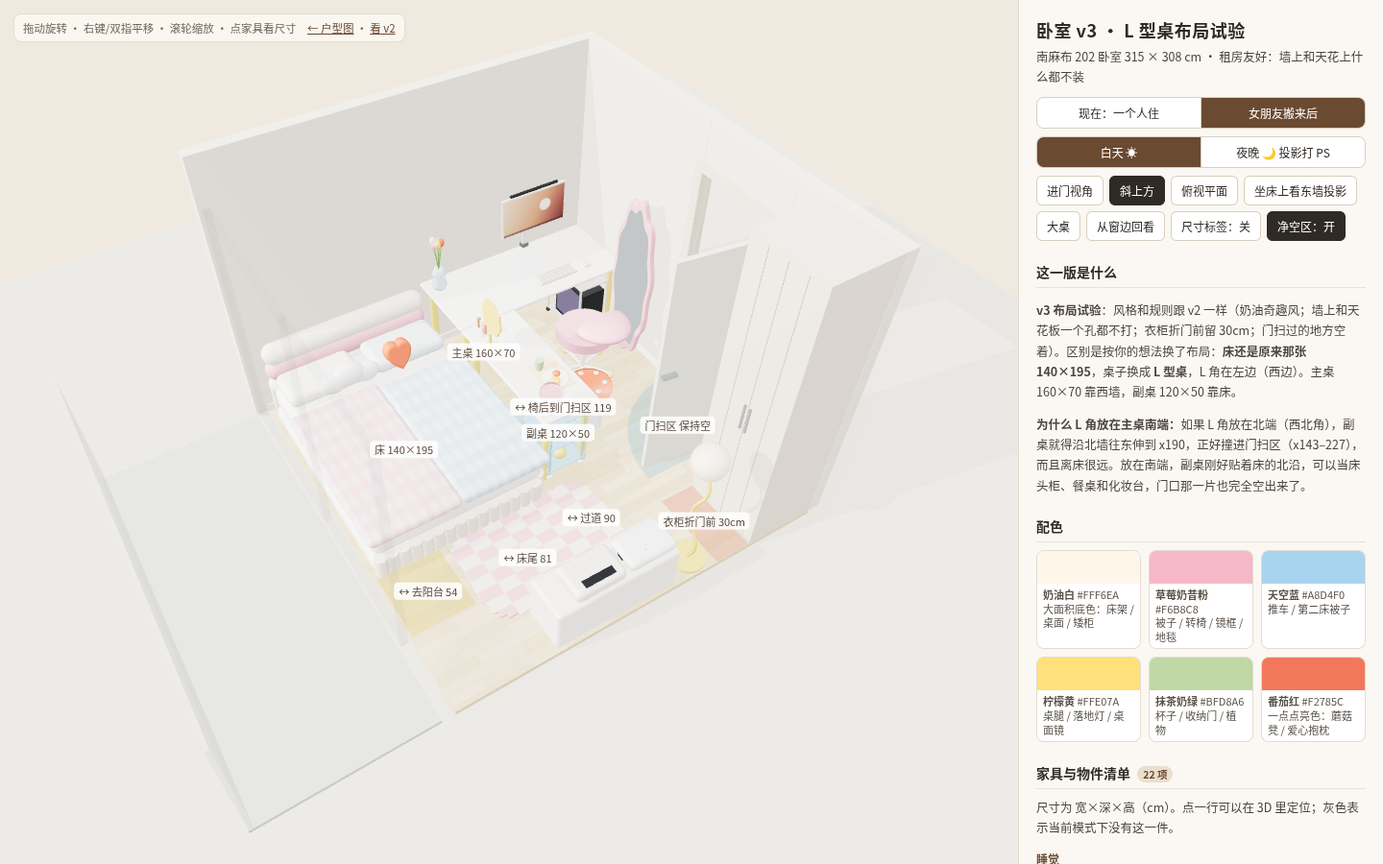
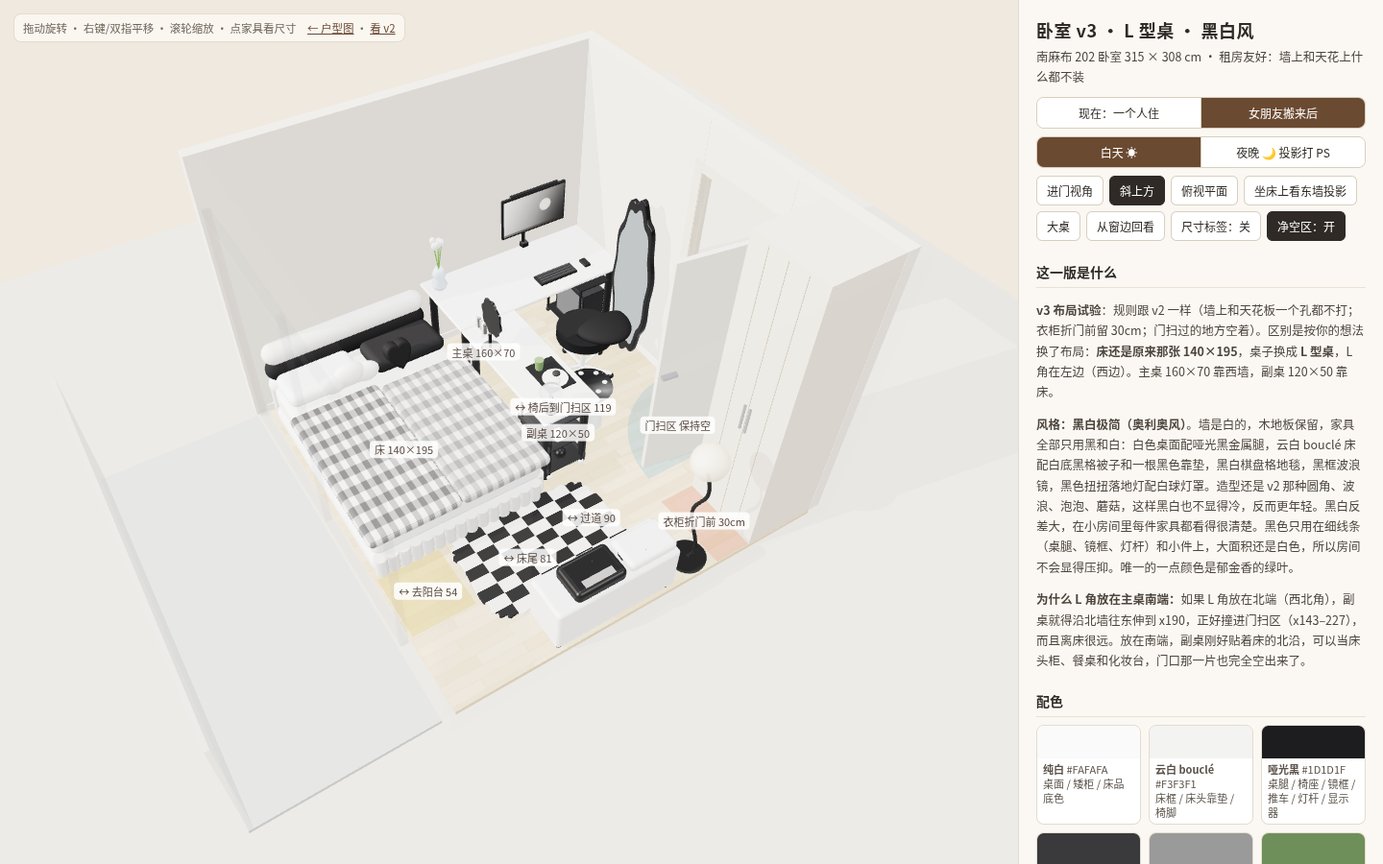
卧室 v3：黑白家具配色

diff --git a/bedroom-design-v3.html b/bedroom-design-v3.html
@@ -4,7 +4,7 @@
 <meta charset="UTF-8">
 <link rel="icon" href="data:,">
 <meta name="viewport" content="width=device-width, initial-scale=1, viewport-fit=cover">
-<title>南麻布 202 · 卧室 v3 布局试验（L 型桌 · 原床位）</title>
+<title>南麻布 202 · 卧室 v3（L 型桌 · 黑白风）</title>
 <style>
   * { box-sizing: border-box; }
   html, body { margin: 0; height: 100%; overflow: hidden; background: #efe9df;
@@ -77,7 +77,7 @@
 
 <aside id="side">
   <button id="toggleSide">展开</button>
-  <h1>卧室 v3 · L 型桌布局试验</h1>
+  <h1>卧室 v3 · L 型桌 · 黑白风</h1>
   <p class="sub">南麻布 202 卧室 315 × 308 cm · 租房友好：墙上和天花上什么都不装</p>
   <div class="seg" id="segMode">
     <button data-mode="solo" class="on">现在：一个人住</button>
@@ -98,7 +98,8 @@
     <button id="btnZones" class="on">净空区：开</button>
   </div>
       <h2>这一版是什么</h2>
-  <p><b>v3 布局试验</b>：风格和规则跟 v2 一样（奶油奇趣风；墙上和天花板一个孔都不打；衣柜折门前留 30cm；门扫过的地方空着）。区别是按你的想法换了布局：<b>床还是原来那张 140×195</b>，桌子换成 <b>L 型桌</b>，L 角在左边（西边）。主桌 160×70 靠西墙，副桌 120×50 靠床。</p>
+  <p><b>v3 布局试验</b>：规则跟 v2 一样（墙上和天花板一个孔都不打；衣柜折门前留 30cm；门扫过的地方空着）。区别是按你的想法换了布局：<b>床还是原来那张 140×195</b>，桌子换成 <b>L 型桌</b>，L 角在左边（西边）。主桌 160×70 靠西墙，副桌 120×50 靠床。</p>
+  <p><b>风格：黑白极简（奥利奥风）</b>。墙是白的，木地板保留，家具全部只用黑和白：白色桌面配哑光黑金属腿，云白 bouclé 床配白底黑格被子和一根黑色靠垫，黑白棋盘格地毯，黑框波浪镜，黑色扭扭落地灯配白球灯罩。造型还是 v2 那种圆角、波浪、泡泡、蘑菇，这样黑白也不显得冷，反而更年轻。黑白反差大，在小房间里每件家具都看得很清楚。黑色只用在细线条（桌腿、镜框、灯杆）和小件上，大面积还是白色，所以房间不会显得压抑。唯一的一点颜色是郁金香的绿叶。</p>
   <p><b>为什么 L 角放在主桌南端：</b>如果 L 角放在北端（西北角），副桌就得沿北墙往东伸到 x190，正好撞进门扫区（x143–227），而且离床很远。放在南端，副桌刚好贴着床的北沿，可以当床头柜、餐桌和化妆台，门口那一片也完全空出来了。</p>
   <h2>配色</h2>
   <div class="pal" id="pal"></div>
@@ -170,12 +171,12 @@ const W = 315, D = 308, H = 240, T = 10;
 
 /* ================= 配色 ================= */
 const PALETTE = [
-  { hex: '#FFF6EA', name: '奶油白', use: '大面积底色：床架 / 桌面 / 矮柜' },
-  { hex: '#F6B8C8', name: '草莓奶昔粉', use: '被子 / 转椅 / 镜框 / 地毯' },
-  { hex: '#A8D4F0', name: '天空蓝', use: '推车 / 第二床被子' },
-  { hex: '#FFE07A', name: '柠檬黄', use: '桌腿 / 落地灯 / 桌面镜' },
-  { hex: '#BFD8A6', name: '抹茶奶绿', use: '杯子 / 收纳门 / 植物' },
-  { hex: '#F2785C', name: '番茄红', use: '一点点亮色：蘑菇凳 / 爱心抱枕' },
+  { hex: '#FAFAFA', name: '纯白', use: '桌面 / 矮柜 / 床品底色' },
+  { hex: '#F3F3F1', name: '云白 bouclé', use: '床框 / 床头靠垫 / 椅脚' },
+  { hex: '#1D1D1F', name: '哑光黑', use: '桌腿 / 椅座 / 镜框 / 推车 / 灯杆 / 显示器' },
+  { hex: '#3A3A3C', name: '炭灰', use: '遮光帘 / 键盘 / 小物' },
+  { hex: '#9A9A9A', name: '银灰', use: '格纹过渡 / 收纳小件' },
+  { hex: '#6F8F5A', name: '植物绿', use: '唯一一点颜色：郁金香茎叶 / 杯子' },
 ];
 const C = { cream: 0xf3ede2, oat: 0xe0d2bc, walnut: 0x6b4a32, caramel: 0xb5733e, wine: 0x6e2a31, olive: 0x6f7a4c,
   ink: 0x2b2622, chrome: 0xd7d9db, white: 0xfbfaf7, linen: 0xf6f1e8, oak: 0xd9c19c };
@@ -380,7 +381,7 @@ const doorPivot = new THREE.Group();
 
 /* ===== v2 构件：奶油奇趣风（局部坐标：原点在占地中心地面，宽沿 x，深沿 z，正面朝 +z） ===== */
 const B = {};
-const P = { cream: 0xfff6ea, pink: 0xf6b8c8, matcha: 0xbfd8a6, lemon: 0xffe07a, sky: 0xa8d4f0, cocoa: 0x7a5543, white: 0xfffdf8, tomato: 0xf2785c };
+const P = { cream: 0xf3f3f1, pink: 0x1d1d1f, matcha: 0x6f8f5a, lemon: 0x1a1a1a, sky: 0x232325, cocoa: 0x141414, white: 0xfafafa, tomato: 0x1d1d1f };   // 黑白风
 const boucle = (c) => M(c, { roughness: 1 });
 const gloss = (c) => M(c, { roughness: 0.25 });
 function tube(g, pts, r, m, seg = 64) {
@@ -395,11 +396,11 @@ B.cloudBed = (o) => {
   const z0 = -d / 2 + 14;                         // 床头靠垫之后
   /* 涟漪软包床架：一圈竖向"泡芙"圆柱 */
   box(g, w, 26, d - 14, 0, 2, (z0 + d / 2) / 2, fr, 8);
-  const ripple = M(0xfbeedd, { roughness: 1 });
+  const ripple = M(0xe9e9e6, { roughness: 1 });
   for (let x = -w / 2 + 6; x <= w / 2 - 6; x += 9.2) cyl(g, 5, 5, 24, x, 3, d / 2 - 3, ripple, 16);
   for (let z = z0 + 6; z <= d / 2 - 8; z += 9.4) cyl(g, 5, 5, 24, w / 2 - 3, 3, z, ripple, 16);
   /* 储物抽屉（东侧 = 局部 -x，因为床旋转 180°） */
-  for (const zz of [-40, 30]) box(g, 1, 14, 56, -w / 2 - 0.3, 8, zz, M(0xf0e2cf));
+  for (const zz of [-40, 30]) box(g, 1, 14, 56, -w / 2 - 0.3, 8, zz, M(0xdedede));
   box(g, w - 4, 22, d - 20, 0, 28, (z0 + d / 2) / 2, M(P.white, { roughness: 0.9 }), 7);       // 床垫
   const top = 50;
   /* 被子：一人 = 草莓粉格纹；两人 = 粉 + 天蓝 两床 */
@@ -410,16 +411,16 @@ B.cloudBed = (o) => {
   }) });
   const dz0 = z0 + 48, dz1 = d / 2 + 2, dzc = (dz0 + dz1) / 2, dl = dz1 - dz0;
   if (!duo) {
-    box(g, w + 6, 9, dl, 0, top - 4, dzc, ging('#fde7ee', '#f6b8c8'), 4.5);
-    box(g, w + 6, 3, 24, 0, top + 4.5, dz0 + 12, M(0xfff1f4, { roughness: 1 }), 1.5);
+    box(g, w + 6, 9, dl, 0, top - 4, dzc, ging('#ffffff', '#1d1d1f'), 4.5);
+    box(g, w + 6, 3, 24, 0, top + 4.5, dz0 + 12, M(0xffffff, { roughness: 1 }), 1.5);
   } else {
-    box(g, w / 2 + 2, 9, dl, -w / 4 - 1, top - 4, dzc, ging('#fde7ee', '#f6b8c8'), 4.5);
-    box(g, w / 2 + 2, 10, dl - 6, w / 4 + 1, top - 4, dzc + 3, ging('#e6f3fc', '#a8d4f0'), 4.5);
+    box(g, w / 2 + 2, 9, dl, -w / 4 - 1, top - 4, dzc, ging('#ffffff', '#1d1d1f'), 4.5);
+    box(g, w / 2 + 2, 10, dl - 6, w / 4 + 1, top - 4, dzc + 3, ging('#e9e9e9', '#555558'), 4.5);
   }
   /* 枕头 */
-  const pil = M(0xfffaf3, { roughness: 1 });
+  const pil = M(0xffffff, { roughness: 1 });
   const np = duo ? [-w / 4, w / 4] : [-w / 4, w / 4];
-  np.forEach((x, i) => { const p = box(g, w / 2 - 10, 13, 38, x, top - 1, z0 + 22, i ? M(duo ? 0xe6f3fc : 0xfffaf3, { roughness: 1 }) : pil, 6); p.rotation.x = -0.12; });
+  np.forEach((x, i) => { const p = box(g, w / 2 - 10, 13, 38, x, top - 1, z0 + 22, i ? M(duo ? 0x2a2a2c : 0xffffff, { roughness: 1 }) : pil, 6); p.rotation.x = -0.12; });
   /* 云朵抱枕 + 爱心抱枕 */
   const cloud = M(0xffffff, { roughness: 1 });
   [[-14, 0, 0, 11], [0, 4, 0, 13], [14, 0, 0, 11]].forEach(([x, y, z, r]) => sph(g, r, x - 18, top + 12 + y, z0 + 40 + z, cloud, 1, 0.8, 0.55));
@@ -441,7 +442,7 @@ B.lowBed = (o) => {
   const z0 = -d / 2 + 14;                         // 床头靠垫之后
   /* 涟漪软包床架：一圈竖向"泡芙"圆柱 */
   box(g, w, 18, d - 14, 0, 2, (z0 + d / 2) / 2, fr, 8);
-  const ripple = M(0xfbeedd, { roughness: 1 });
+  const ripple = M(0xe9e9e6, { roughness: 1 });
   for (let x = -w / 2 + 6; x <= w / 2 - 6; x += 9.2) cyl(g, 5, 5, 17, x, 3, d / 2 - 3, ripple, 16);
   for (let z = z0 + 6; z <= d / 2 - 8; z += 9.4) cyl(g, 5, 5, 17, w / 2 - 3, 3, z, ripple, 16);
   /* 储物抽屉（东侧 = 局部 -x，因为床旋转 180°） */
@@ -455,16 +456,16 @@ B.lowBed = (o) => {
   }) });
   const dz0 = z0 + 48, dz1 = d / 2 + 2, dzc = (dz0 + dz1) / 2, dl = dz1 - dz0;
   if (!duo) {
-    box(g, w + 6, 9, dl, 0, top - 4, dzc, ging('#fde7ee', '#f6b8c8'), 4.5);
-    box(g, w + 6, 3, 24, 0, top + 4.5, dz0 + 12, M(0xfff1f4, { roughness: 1 }), 1.5);
+    box(g, w + 6, 9, dl, 0, top - 4, dzc, ging('#ffffff', '#1d1d1f'), 4.5);
+    box(g, w + 6, 3, 24, 0, top + 4.5, dz0 + 12, M(0xffffff, { roughness: 1 }), 1.5);
   } else {
-    box(g, w / 2 + 2, 9, dl, -w / 4 - 1, top - 4, dzc, ging('#fde7ee', '#f6b8c8'), 4.5);
-    box(g, w / 2 + 2, 10, dl - 6, w / 4 + 1, top - 4, dzc + 3, ging('#e6f3fc', '#a8d4f0'), 4.5);
+    box(g, w / 2 + 2, 9, dl, -w / 4 - 1, top - 4, dzc, ging('#ffffff', '#1d1d1f'), 4.5);
+    box(g, w / 2 + 2, 10, dl - 6, w / 4 + 1, top - 4, dzc + 3, ging('#e9e9e9', '#555558'), 4.5);
   }
   /* 枕头 */
-  const pil = M(0xfffaf3, { roughness: 1 });
+  const pil = M(0xffffff, { roughness: 1 });
   const np = duo ? [-w / 4, w / 4] : [-w / 4, w / 4];
-  np.forEach((x, i) => { const p = box(g, w / 2 - 10, 13, 38, x, top - 1, z0 + 22, i ? M(duo ? 0xe6f3fc : 0xfffaf3, { roughness: 1 }) : pil, 6); p.rotation.x = -0.12; });
+  np.forEach((x, i) => { const p = box(g, w / 2 - 10, 13, 38, x, top - 1, z0 + 22, i ? M(duo ? 0x2a2a2c : 0xffffff, { roughness: 1 }) : pil, 6); p.rotation.x = -0.12; });
   /* 云朵抱枕 + 爱心抱枕 */
   const cloud = M(0xffffff, { roughness: 1 });
   [[-14, 0, 0, 11], [0, 4, 0, 13], [14, 0, 0, 11]].forEach(([x, y, z, r]) => sph(g, r, x - 18, top + 12 + y, z0 + 40 + z, cloud, 1, 0.8, 0.55));
@@ -486,7 +487,7 @@ B.extTable = (o) => {
   box(g, L, 3.5, Dd, 0, 68.5, 0, topM, 1.6);
   if (L > 130 && !o.solid) box(g, 0.5, 0.4, Dd - 2, L / 2 - 40, 72, 0, M(0xe8e0d4));       // 伸缩板接缝
   for (const [x, z] of [[-L / 2 + 8, -Dd / 2 + 8], [L / 2 - 8, -Dd / 2 + 8], [-L / 2 + 8, Dd / 2 - 8], [L / 2 - 8, Dd / 2 - 8]]) cyl(g, 3.2, 3.2, 68.5, x, 0, z, legM, 20);
-  box(g, L - 20, 4, 3, 0, 62, -Dd / 2 + 8, M(0xf6efe4));
+  box(g, L - 20, 4, 3, 0, 62, -Dd / 2 + 8, M(0x1a1a1a));
   return g;
 };
 B.bubbleChair = () => {
@@ -507,13 +508,13 @@ B.mushroomStool = (o) => {
   return g;
 };
 B.cart = (o) => {
-  /* 天蓝三层推车 44×34×64：零食 / 手柄 / 充电，可推进桌下（桌下净高 68） */
+  /* 哑光黑三层推车 44×34×64：零食 / 手柄 / 充电，可推进桌下（桌下净高 68） */
   const g = new THREE.Group();
   const m = gloss(P.sky);
   for (const [x, z] of [[-20, -15], [20, -15], [-20, 15], [20, 15]]) { cyl(g, 1, 1, 58, x, 5, z, m, 8); sph(g, 2.5, x, 2.5, z, M(0xffffff)); }
   for (const y of [8, 33, 58]) { box(g, 44, 1, 34, 0, y, 0, m, 0.5); box(g, 44, 5, 1, 0, y, 17, m); box(g, 44, 5, 1, 0, y, -17, m); }
   const pad = box(g, 16, 5, 10, 10, 34, 3, gloss(0xffffff), 2.5);           // 手柄
-  ['#f6b8c8', '#a8d4f0', '#ffe07a', '#bfd8a6'].forEach((c, i) => box(g, 1.6, 17, 13.5, -16 + i * 2.2, 9, 0, M(new THREE.Color(c).getHex())));   // 游戏盒
+  ['#ffffff', '#1d1d1f', '#9a9a9a', '#1d1d1f'].forEach((c, i) => box(g, 1.6, 17, 13.5, -16 + i * 2.2, 9, 0, M(new THREE.Color(c).getHex())));   // 游戏盒
   cyl(g, 4, 4, 9, -10, 34, 0, gloss(P.tomato), 16);                          // 零食罐
   sph(g, 5, 12, 14, 0, gloss(P.lemon));
   return g;
@@ -525,7 +526,7 @@ B.lowBench = (o) => {
   for (const x of [-L / 2 + 5, L / 2 - 5]) for (const z of [-12, 12]) cyl(g, 2.5, 2.5, 5, x, 0, z, gloss(P.lemon), 12);
   /* 波浪拱门格 + 粉色推门 */
   box(g, L / 2 - 4, 30, 1, -L / 4, 10, 17.6, gloss(P.pink), 2);
-  for (let i = 0; i < 6; i++) { const x = 4 + i * ((L / 2 - 10) / 6); box(g, 1.5, 22, 14, x, 10, 4, M(['#ffe07a', '#a8d4f0', '#bfd8a6', '#f6b8c8', '#ffffff', '#f2785c'].map(c => new THREE.Color(c).getHex())[i])); }
+  for (let i = 0; i < 6; i++) { const x = 4 + i * ((L / 2 - 10) / 6); box(g, 1.5, 22, 14, x, 10, 4, M(['#1d1d1f', '#ffffff', '#9a9a9a', '#1d1d1f', '#ffffff', '#6f8f5a'].map(c => new THREE.Color(c).getHex())[i])); }
   return g;
 };
 B.wavyMirror = (o) => {
@@ -563,7 +564,7 @@ B.wiggleLamp = (o) => {
 B.mushroomLamp = (o) => {
   const g = new THREE.Group();
   const c = o.color || P.pink;
-  const base = gloss(c);
+  const base = gloss(o.base || c);
   lathe(g, [[0, 0], [7, 0], [7, 1.2], [2.2, 3], [1.7, 14], [1.7, 18], [0, 18]], 0, 0, 0, base);
   const capM = glow(c, 0.1);
   lathe(g, [[0, 30], [4, 29.6], [8.5, 27.5], [11, 23], [11, 21.6], [9, 21.2], [0, 21.4]], 0, 0, 0, capM);
@@ -583,7 +584,7 @@ B.checkerRug = (o) => {
     i ? shape.lineTo(x, z) : shape.moveTo(x, z);
   }
   const tex = canvasTex(512, 512, (x, cw, ch) => {
-    const n = 8; for (let i = 0; i < n; i++) for (let j = 0; j < n; j++) { x.fillStyle = (i + j) % 2 ? '#f6b8c8' : '#fff3e6'; x.fillRect(i * cw / n, j * ch / n, cw / n, ch / n); }
+    const n = 8; for (let i = 0; i < n; i++) for (let j = 0; j < n; j++) { x.fillStyle = (i + j) % 2 ? '#1d1d1f' : '#f5f5f3'; x.fillRect(i * cw / n, j * ch / n, cw / n, ch / n); }
   });
   const geo = new THREE.ExtrudeGeometry(shape, { depth: 1.6, bevelEnabled: true, bevelThickness: 0.5, bevelSize: 0.8, bevelSegments: 2 });
   geo.rotateX(Math.PI / 2);
@@ -596,7 +597,7 @@ B.tulips = () => {
   const g = new THREE.Group();
   lathe(g, [[0, 0], [5, 0], [6.5, 4], [4, 9], [6, 14], [4.2, 18], [3.5, 20], [0, 20]], 0, 0, 0, M(0xd9ecff, { roughness: 0.05, transparent: true, opacity: 0.75 }));
   const r = rnd(4);
-  ['#f6b8c8', '#ffe07a', '#f2785c', '#f6b8c8', '#ffffff'].forEach((c, i) => {
+  ['#ffffff', '#f2f2f2', '#ffffff', '#ececec', '#ffffff'].forEach((c, i) => {
     const a = i * 1.25, t = 0.12 + r() * 0.12, hh = 18 + r() * 8;
     const x = Math.sin(a) * hh * t, z = Math.cos(a) * hh * t;
     tube(g, [[0, 18, 0], [x / 2, 18 + hh / 2, z / 2], [x, 18 + hh, z]], 0.35, M(0x7fae5a), 8);
@@ -606,9 +607,9 @@ B.tulips = () => {
 };
 B.meal = () => {
   const g = new THREE.Group();
-  box(g, 34, 1, 24, 0, 0, 0, M(0xffe9b8, { roughness: 0.6 }), 0.5);       // 托盘
+  box(g, 34, 1, 24, 0, 0, 0, M(0x1d1d1f, { roughness: 0.6 }), 0.5);       // 托盘
   cyl(g, 10, 8, 1.6, -6, 1, 0, gloss(0xffffff), 32);
-  sph(g, 4, -9, 3, -2, M(0xffd56b), 1, 0.5, 1); sph(g, 3, -3, 3, 3, M(0xf2785c), 1, 0.6, 1);
+  sph(g, 4, -9, 3, -2, M(0xf5f5f5), 1, 0.5, 1); sph(g, 3, -3, 3, 3, M(0x3a3a3c), 1, 0.6, 1);
   cyl(g, 3.6, 3, 9, 10, 1, -4, gloss(P.matcha), 16);
   return g;
 };
@@ -623,7 +624,7 @@ B.makeupSet = () => {
   cyl(g, 1.2, 1.2, 15, 0, 0, -1, gloss(P.lemon)); cyl(g, 7, 8, 1.5, 0, 0, 0, gloss(P.lemon));
   /* 亚克力收纳 + 口红 */
   box(g, 18, 10, 10, 22, 0, 4, M(0xffffff, { transparent: true, opacity: 0.45, roughness: 0.05 }), 1);
-  ['#f2785c', '#f6b8c8', '#ffffff', '#7a5543', '#ffe07a'].forEach((c, i) => cyl(g, 1.3, 1.3, 9, 16 + i * 3, 1, 4, gloss(new THREE.Color(c).getHex()), 10));
+  ['#1d1d1f', '#ffffff', '#9a9a9a', '#1d1d1f', '#c8c8c8'].forEach((c, i) => cyl(g, 1.3, 1.3, 9, 16 + i * 3, 1, 4, gloss(new THREE.Color(c).getHex()), 10));
   return g;
 };
 B.plushBear = () => {
@@ -678,7 +679,7 @@ B.dayBed = (o) => {
   box(g, L - 18, 14, 92, 0, 30, zb + 54, M(P.white, { roughness: 0.95 }), 6);        // 床垫 97×196 → 简化
   /* 涟漪靠背（独立立着，贴墙但不固定） */
   box(g, L - 4, 74, 12, 0, 6, zb + 6, fr, 6);
-  const ripple = M(0xfbeedd, { roughness: 1 });
+  const ripple = M(0xe9e9e6, { roughness: 1 });
   for (let x = -L / 2 + 8; x <= L / 2 - 8; x += 9.6) cyl(g, 5, 5, 66, x, 10, zb + 12.5, ripple, 14);
   /* 两端扶手：圆润泡芙 */
   for (const s of [-1, 1]) {
@@ -696,10 +697,10 @@ B.dayBed = (o) => {
     for (let i = 0; i < 8; i++) { x.globalAlpha = .45; x.fillRect(i * 32, 0, 16, ch); x.fillRect(0, i * 32, cw, 16); }
     x.globalAlpha = 1;
   }) });
-  const pil = M(0xfffaf3, { roughness: 1 });
+  const pil = M(0xffffff, { roughness: 1 });
   if (!duo) {
     /* 一人：白天当沙发，被子叠在北端，枕头在南端 */
-    box(g, 60, 12, 74, L / 2 - 50, top, zb + 60, ging('#fde7ee', '#f6b8c8'), 5);
+    box(g, 60, 12, 74, L / 2 - 50, top, zb + 60, ging('#ffffff', '#1d1d1f'), 5);
     const p = box(g, 34, 13, 50, -L / 2 + 34, top, zb + 60, pil, 6); p.rotation.z = 0.15;
     const heart = new THREE.Shape(); heart.moveTo(0, -9); heart.bezierCurveTo(-14, 2, -8, 14, 0, 7); heart.bezierCurveTo(8, 14, 14, 2, 0, -9);
     const hm = shade(new THREE.Mesh(new THREE.ExtrudeGeometry(heart, { depth: 6, bevelEnabled: true, bevelSize: 2.5, bevelThickness: 2.5, bevelSegments: 4 }), M(P.tomato, { roughness: 0.8 })));
@@ -710,17 +711,17 @@ B.dayBed = (o) => {
     for (const x of [-L / 2 + 20, L / 2 - 20]) cyl(g, 3, 3, 4, x, 0, D / 2 - 8, gloss(0xffffff), 12);
     box(g, L - 24, 14, 86, 0, 30, zTop + 45, M(P.white, { roughness: 0.95 }), 6);
     const dl = L - 70;
-    box(g, dl, 9, 94, 18, top - 1, zb + 54, ging('#fde7ee', '#f6b8c8'), 4.5);
-    box(g, dl, 10, 86, 18, top - 1, zTop + 44, ging('#e6f3fc', '#a8d4f0'), 4.5);
-    [zb + 54, zTop + 44].forEach((z, i) => { const p = box(g, 34, 13, 56, -L / 2 + 36, top, z, i ? M(0xe6f3fc, { roughness: 1 }) : pil, 6); p.rotation.z = 0.15; });
+    box(g, dl, 9, 94, 18, top - 1, zb + 54, ging('#ffffff', '#1d1d1f'), 4.5);
+    box(g, dl, 10, 86, 18, top - 1, zTop + 44, ging('#e9e9e9', '#555558'), 4.5);
+    [zb + 54, zTop + 44].forEach((z, i) => { const p = box(g, 34, 13, 56, -L / 2 + 36, top, z, i ? M(0x2a2a2c, { roughness: 1 }) : pil, 6); p.rotation.z = 0.15; });
   }
   return g;
 };
 B.ustProjector = () => {
   /* 超短焦投影：放在矮柜上，离墙 10cm 往上打 */
   const g = new THREE.Group();
-  box(g, 40, 11, 28, 0, 0, 0, gloss(0xf6f3ee), 4);
-  box(g, 24, 0.6, 6, 0, 11, -8, gloss(0x22252b), 0.3);
+  box(g, 40, 11, 28, 0, 0, 0, gloss(0x1d1d1f), 4);
+  box(g, 24, 0.6, 6, 0, 11, -8, gloss(0x9a9a9a), 0.3);
   box(g, 34, 2, 1, 0, 3, 14.2, M(0xd9d4cc));
   return g;
 };
@@ -735,15 +736,15 @@ B.ps5Flat = () => {
 B.feltPad = () => { const g = new THREE.Group(); box(g, 70, 0.4, 30, 0, 0, 0, M(0xd6c6ad, { roughness: 1 }), 0.2); return g; };
 B.monitor = () => {
   const g = new THREE.Group();
-  const white = M(0xf2f1ee, { roughness: 0.4 });
+  const white = M(0x1d1d1f, { roughness: 0.4 });
   /* 支臂夹在桌后沿 */
-  box(g, 6, 4, 8, 0, 0, -18, metal(0x9a9a98));
+  box(g, 6, 4, 8, 0, 0, -18, metal(0x2a2a2a));
   cyl(g, 1.6, 1.6, 30, 0, 4, -18, white, 12);
   const arm = box(g, 3, 3, 16, 0, 32, -11, white); arm.rotation.x = 0.2;
   box(g, 61.5, 37, 2.6, 0, 26, -3, white, 0.8);
   const scr = new THREE.Mesh(new THREE.PlaneGeometry(59, 33.5), new THREE.MeshStandardMaterial({
     map: canvasTex(512, 290, (x, w, h) => {
-      const gr = x.createLinearGradient(0, 0, w, h); gr.addColorStop(0, '#e9cdb0'); gr.addColorStop(.55, '#c98d6b'); gr.addColorStop(1, '#6e2a31');
+      const gr = x.createLinearGradient(0, 0, w, h); gr.addColorStop(0, '#f2f2f2'); gr.addColorStop(.55, '#8c8c8c'); gr.addColorStop(1, '#161616');
       x.fillStyle = gr; x.fillRect(0, 0, w, h);
       x.fillStyle = 'rgba(255,248,236,.85)'; x.beginPath(); x.arc(w * .68, h * .42, 46, 0, 7); x.fill();
       x.fillStyle = 'rgba(47,42,37,.55)'; x.fillRect(0, h - 18, w, 18);
@@ -756,19 +757,19 @@ B.monitor = () => {
 };
 B.keyboard = () => {
   const g = new THREE.Group();
-  box(g, 36, 2.2, 12.5, 0, 0, 0, M(0xf1ece2, { roughness: 0.5 }), 0.6);
-  for (let r = 0; r < 4; r++) box(g, 33, 0.6, 2, 0, 2.2, -4.5 + r * 3, M(0xe6dccb, { roughness: 0.6 }));
-  box(g, 6, 2.5, 10.5, 30, 0, 0, M(0xf1ece2, { roughness: 0.5 }), 2.5);     // 鼠标
+  box(g, 36, 2.2, 12.5, 0, 0, 0, M(0x1d1d1f, { roughness: 0.5 }), 0.6);
+  for (let r = 0; r < 4; r++) box(g, 33, 0.6, 2, 0, 2.2, -4.5 + r * 3, M(0x3a3a3c, { roughness: 0.6 }));
+  box(g, 6, 2.5, 10.5, 30, 0, 0, M(0x1d1d1f, { roughness: 0.5 }), 2.5);     // 鼠标
   return g;
 };
 B.pcRack = (o) => {
   const g = new THREE.Group();
-  const st = M(0xf2efe9, { roughness: 0.5, metalness: 0.2 });
+  const st = M(0x1d1d1f, { roughness: 0.5, metalness: 0.2 });
   for (const [x, z] of [[-14, -24], [14, -24], [-14, 24], [14, 24]]) { box(g, 1.6, 52, 1.6, x, 4, z, st); sph(g, 2, x, 2, z, M(0x333333)); }
   box(g, 30, 1.2, 50, 0, 5, 0, st); box(g, 30, 1.2, 50, 0, 55, 0, st);
   /* 主机 Thermaltake mATX 22×41.1×41.1，面板朝前，背后留走线 */
   box(g, 22, 41.1, 41.1, 0, 6.2, 4, M(0x26272a, { roughness: 0.35, metalness: 0.3 }), 0.6);
-  const gl = new THREE.Mesh(new THREE.PlaneGeometry(37, 35), new THREE.MeshStandardMaterial({ color: 0x7a6cff, emissive: 0x9f8cff,
+  const gl = new THREE.Mesh(new THREE.PlaneGeometry(37, 35), new THREE.MeshStandardMaterial({ color: 0xdddddd, emissive: 0xffffff,
     emissiveIntensity: 0.25, transparent: true, opacity: 0.55, roughness: 0.1 }));
   gl.rotation.y = -Math.PI / 2; gl.position.set(-11.05, 27, 4); g.add(gl);
   /* 路由器（天线放平） */
@@ -792,7 +793,7 @@ B.curtains = (o) => {
   /* 纱帘：白天拉开铺满窗 / 晚上也在；遮光帘：白天收在西侧固定扇，晚上拉上 */
   const sheer = wave(250, 232, 22, 2.2, 0xffffff, 0.5); sheer.position.set(0, 118, 3); g.add(sheer);
   const bw = duo ? 250 : 44;
-  const black = wave(bw, 234, duo ? 20 : 7, duo ? 3 : 4.5, 0xf6c3cf, 1); black.position.set(-125 + bw / 2, 118, -3); g.add(black);
+  const black = wave(bw, 234, duo ? 20 : 7, duo ? 3 : 4.5, 0x3a3a3c, 1); black.position.set(-125 + bw / 2, 118, -3); g.add(black);
   box(g, 258, 3, 12, 0, 235, 0, M(0xf3efe8));      // 原有窗帘轨
   return g;
 };
@@ -803,54 +804,54 @@ B.curtains = (o) => {
 const ITEMS = [
   // —— 睡觉
   { id: 'bed', cat: '睡觉', name: '低矮涟漪软包床（床垫 140×195）', size: [145, 199, 75], at: [99.5, 233.5], rot: 90, build: 'lowBed',
-    desc: '奶白 bouclé 涟漪床框，薄边，床面高 42，属于低床。框体东西长 199、南北宽 145：x0–199，z161–306，床头朝西，三根泡芙靠垫立在床头，不固定在墙上。北侧紧贴副桌，南侧贴着落地窗，所以只能从东边床尾上下床。' },
+    desc: '云白 bouclé 涟漪床框（中间一根黑色靠垫点缀），薄边，床面高 42，属于低床。框体东西长 199、南北宽 145：x0–199，z161–306，床头朝西，三根泡芙靠垫立在床头，不固定在墙上。北侧紧贴副桌，南侧贴着落地窗，所以只能从东边床尾上下床。' },
   { id: 'bedding', cat: '睡觉', name: '床品', size: [150, 200, 10], info: true,
-    desc: '一个人：一床草莓粉格纹被。两个人：粉色和天蓝各一床单人被。' },
+    desc: '一个人：一床白底黑格纹被。两个人：白底黑格、浅灰格各一床单人被，加一个黑色枕头。' },
   // —— L 型桌
   { id: 'desk', cat: 'L 型桌', name: 'L 型桌 · 主桌 160×70（靠西墙）', size: [160, 70, 72], at: [35, 80], rot: 90, build: 'extTable', solid: true,
-    desc: '贴西墙，x0–70、z0–160，从西北角一直到床边。白色桌面，柠檬黄圆腿，高 72。北段放电脑，南段放化妆和小物件。' },
+    desc: '贴西墙，x0–70、z0–160，从西北角一直到床边。白色桌面，哑光黑金属圆腿，高 72。北段放电脑，南段放化妆和小物件。' },
   { id: 'side', cat: 'L 型桌', name: 'L 型桌 · 副桌 120×50（靠床）', size: [120, 50, 72], at: [130, 135], rot: 180, build: 'extTable', solid: true,
     desc: 'L 角在主桌南端，副桌从这里往东伸：x70–190，z110–160，南沿正好贴着床。可以当床头柜（台灯、手机），也可以当餐桌和化妆台，人坐在北边，朝南。' },
-  { id: 'monitor', cat: '电脑', name: '27 寸显示器＋夹桌支臂', size: [61, 20, 65], at: [19, 75], y: 72, rot: 90, build: 'monitor', mode: 'solo',
+  { id: 'monitor', cat: '电脑', name: '27 寸黑色显示器＋黑色夹桌支臂', size: [61, 20, 65], at: [19, 75], y: 72, rot: 90, build: 'monitor', mode: 'solo',
     desc: '在主桌北段，屏幕朝东。支臂可以推到墙边。' },
-  { id: 'monitor2', cat: '电脑', name: '27 寸显示器＋夹桌支臂', size: [61, 20, 65], at: [19, 58], y: 72, rot: 90, build: 'monitor', mode: 'duo', desc: '两人模式往北挪 17，给副桌的座位让出地方。' },
+  { id: 'monitor2', cat: '电脑', name: '27 寸黑色显示器＋黑色夹桌支臂', size: [61, 20, 65], at: [19, 58], y: 72, rot: 90, build: 'monitor', mode: 'duo', desc: '两人模式往北挪 17，给副桌的座位让出地方。' },
   { id: 'kb', cat: '电脑', name: '键盘＋鼠标', size: [44, 13, 3], at: [52, 75], y: 72.4, rot: 90, build: 'keyboard', mode: 'solo', desc: '' },
   { id: 'kb2', cat: '电脑', name: '键盘＋鼠标', size: [44, 13, 3], at: [52, 58], y: 72.4, rot: 90, build: 'keyboard', mode: 'duo', desc: '' },
-  { id: 'rack', cat: '电脑', name: '带轮双层架（主机＋路由器）', size: [30, 50, 60], at: [40, 25], rot: 90, build: 'pcRack',
+  { id: 'rack', cat: '电脑', name: '黑色带轮双层架（主机＋路由器）', size: [30, 50, 60], at: [40, 25], rot: 90, build: 'pcRack',
     desc: '放在主桌下的西北角（x15–65，z10–40）。下层放 Thermaltake mATX 主机（22×41.1×41.1），上层放路由器，坐着时碰不到腿。' },
-  { id: 'chair', cat: 'L 型桌', name: '草莓粉泡泡转椅', size: [52, 52, 82], at: [98, 75], rot: -90, build: 'bubbleChair', mode: 'solo',
-    desc: '坐在主桌前，面朝西用电脑；转个身就能用副桌吃饭或化妆。往后拉的方向是东边，空间很足。' },
-  { id: 'chair2', cat: 'L 型桌', name: '草莓粉泡泡转椅（电脑位）', size: [52, 52, 82], at: [98, 58], rot: -90, build: 'bubbleChair', mode: 'duo', desc: '两人模式坐在主桌北段，椅子离全身镜约 2cm。' },
-  { id: 'stool', cat: 'L 型桌', name: '番茄红蘑菇凳（副桌位）', size: [38, 38, 47], at: [150, 90], rot: 0, build: 'mushroomStool', mode: 'duo',
+  { id: 'chair', cat: 'L 型桌', name: '黑白泡泡转椅', size: [52, 52, 82], at: [98, 75], rot: -90, build: 'bubbleChair', mode: 'solo',
+    desc: '黑色圈圈绒座面，白色五星脚。坐在主桌前，面朝西用电脑；转个身就能用副桌吃饭或化妆。往后拉的方向是东边，空间很足。' },
+  { id: 'chair2', cat: 'L 型桌', name: '黑白泡泡转椅（电脑位）', size: [52, 52, 82], at: [98, 58], rot: -90, build: 'bubbleChair', mode: 'duo', desc: '两人模式坐在主桌北段，椅子离全身镜约 2cm。' },
+  { id: 'stool', cat: 'L 型桌', name: '黑色波点蘑菇凳（副桌位）', size: [38, 38, 47], at: [150, 90], rot: 0, build: 'mushroomStool', mode: 'duo',
     desc: '女朋友吃饭、化妆时坐在副桌北边（x131–169，z71–109），离门扫区还有约 15cm。平时塞进副桌下面。' },
-  { id: 'stoolS', cat: 'L 型桌', name: '番茄红蘑菇凳（收在副桌下）', size: [38, 38, 47], at: [110, 135], rot: 0, build: 'mushroomStool', mode: 'solo',
+  { id: 'stoolS', cat: 'L 型桌', name: '黑色波点蘑菇凳（收在副桌下）', size: [38, 38, 47], at: [110, 135], rot: 0, build: 'mushroomStool', mode: 'solo',
     desc: '一人模式收在副桌下，有客人来时再拉出来。' },
-  { id: 'makeup', cat: 'L 型桌', name: '柠檬黄波浪桌面镜＋亚克力收纳', size: [40, 16, 36], at: [100, 150], y: 72, rot: 180, build: 'makeupSet',
+  { id: 'makeup', cat: 'L 型桌', name: '黑框波浪桌面镜＋亚克力收纳', size: [40, 16, 36], at: [100, 150], y: 72, rot: 180, build: 'makeupSet',
     desc: '放在副桌西段，靠近 L 角，坐在转椅上就能化妆。' },
-  { id: 'meal', cat: 'L 型桌', name: '早餐托盘（吃饭区）', size: [34, 24, 10], at: [150, 128], y: 72, rot: 180, build: 'meal',
+  { id: 'meal', cat: 'L 型桌', name: '黑色早餐托盘（吃饭区）', size: [34, 24, 10], at: [150, 128], y: 72, rot: 180, build: 'meal',
     desc: '副桌东段就是餐桌，一个人或两个人都在这里吃。' },
-  { id: 'lamp', cat: '灯光', name: '草莓粉蘑菇台灯（床头灯）', size: [22, 22, 30], at: [180, 148], y: 72, rot: 0, build: 'mushroomLamp', color: 0xf6b8c8, scale: 0.8,
+  { id: 'lamp', cat: '灯光', name: '白色蘑菇台灯（黑底座，床头灯）', size: [22, 22, 30], at: [180, 148], y: 72, rot: 0, build: 'mushroomLamp', color: 0xf5f5f5, base: 0x1d1d1f, scale: 0.8,
     desc: '放在副桌东端，床头伸手就能够到。' },
-  { id: 'tulips', cat: '摆件', name: '玻璃波浪花瓶＋郁金香', size: [13, 13, 45], at: [14, 148], y: 72, rot: 0, build: 'tulips', desc: '主桌南端的角上。' },
-  { id: 'cart', cat: '收纳', name: '天蓝三层推车（零食·手柄·充电）', size: [44, 34, 64], at: [165, 135], rot: 0, build: 'cart',
+  { id: 'tulips', cat: '摆件', name: '玻璃花瓶＋白色郁金香（全屋唯一一点绿）', size: [13, 13, 45], at: [14, 148], y: 72, rot: 0, build: 'tulips', desc: '主桌南端的角上。' },
+  { id: 'cart', cat: '收纳', name: '哑光黑三层推车（零食·手柄·充电）', size: [44, 34, 64], at: [165, 135], rot: 0, build: 'cart',
     desc: '推进副桌下面的东段（x143–187），比桌下净高矮，进得去。' },
   // —— 东墙：投影 / PS
-  { id: 'bench', cat: '投影 · PS', name: '奶白矮柜（投影台＋PS 收纳）', size: [100, 35, 45], at: [297.5, 180], rot: -90, build: 'lowBench',
+  { id: 'bench', cat: '投影 · PS', name: '白色矮柜（黑色推门 · 投影台＋PS 收纳）', size: [100, 35, 45], at: [297.5, 180], rot: -90, build: 'lowBench',
     desc: '贴东墙，x280–315、z130–230，正对床。柜子里放游戏碟和手柄。' },
-  { id: 'ust', cat: '投影 · PS', name: '超短焦投影仪', size: [40, 28, 11], at: [300, 195], y: 45, rot: -90, build: 'ustProjector',
+  { id: 'ust', cat: '投影 · PS', name: '超短焦投影仪（黑色）', size: [40, 28, 11], at: [300, 195], y: 45, rot: -90, build: 'ustProjector',
     desc: '离墙约 15cm，打在东墙白墙上，不吊装，也不打孔。' },
   { id: 'ps5', cat: '投影 · PS', name: 'PS5（平放）＋手柄', size: [39, 26, 10], at: [300, 152], y: 45, rot: -90, build: 'ps5Flat', desc: '平放后不挡画面。' },
   { id: 'beam', cat: '投影 · PS', name: '东墙白墙投影 约 54 寸', size: [120, 0, 67], at: [315, 180], rot: -90, screen: true, build: 'beam',
     from: [0, 57, 15], cx: 0, cy: 106, w: 120, h: 67, wallHide: 'E',
     desc: '画面在东墙 z120–240，底边离地 72。坐在床上看过去约 2.6m，靠着床头靠垫打 PS、追剧都合适。比 v2 的北墙投影大一圈。' },
   // —— 其他
-  { id: 'mirror', cat: '摆件', name: '粉色波浪全身镜（自立式）', size: [45, 30, 160], at: [102, 15], rot: 0, build: 'wavyMirror',
+  { id: 'mirror', cat: '摆件', name: '黑框波浪全身镜（自立式）', size: [45, 30, 160], at: [102, 15], rot: 0, build: 'wavyMirror',
     desc: '贴北墙，x80–125、z0–30，在门扫区西边。站在主桌和副桌之间照全身。' },
-  { id: 'floorLamp', cat: '灯光', name: '柠檬黄波浪落地灯', size: [28, 28, 120], at: [300, 106], rot: 0, build: 'wiggleLamp',
+  { id: 'floorLamp', cat: '灯光', name: '黑色波浪落地灯（白球灯罩）', size: [28, 28, 120], at: [300, 106], rot: 0, build: 'wiggleLamp',
     desc: '东墙 z92–120，在衣柜净空区南边、矮柜北边。从床上看投影的视线从它南边过去，挡不到。' },
-  { id: 'rug', cat: '软装', name: '粉色棋盘格地毯（波浪边）', size: [80, 120, 1.6], at: [237, 190], rot: 0, build: 'checkerRug',
+  { id: 'rug', cat: '软装', name: '黑白棋盘格地毯（波浪边）', size: [80, 120, 1.6], at: [237, 190], rot: 0, build: 'checkerRug',
     desc: 'x197–277、z130–250，铺在床尾和矮柜之间，下床光脚踩。' },
-  { id: 'curtains', wall: 'S', cat: '软装', name: '纱帘＋粉色遮光帘（挂原有窗帘轨）', size: [255, 12, 235], at: [127.5, 300], rot: 0, build: 'curtains',
+  { id: 'curtains', wall: 'S', cat: '软装', name: '白纱帘＋炭灰遮光帘（挂原有窗帘轨）', size: [255, 12, 235], at: [127.5, 300], rot: 0, build: 'curtains',
     desc: '只换帘子，不新增安装。注意：床贴着落地窗，帘子下摆会被床压住（见"冲突"）。' },
 ];
 

diff --git a/design-notes/v3-01-layout.md b/design-notes/v3-01-layout.md
@@ -28,3 +28,13 @@
 3. 只能从床尾上下床。把副桌缩到 90 长，床北侧东段会空出约 40cm。
 4. 床贴着落地窗，窗帘下摆会被床压住。建议换成短帘（到床面高度）。
 5. 两人住时收纳偏少，这一点没有解决。
+
+## 2026-11-11 22:20 东京时间：改成黑白配色
+用户要求"用黑白色的家具"。布局和坐标都没动，只改颜色：
+- 白色桌面配哑光黑金属腿；云白 bouclé 床，白底黑格被子，一根黑色靠垫
+- 黑白泡泡转椅，黑色波点蘑菇凳；黑框全身镜和桌面镜
+- 黑色落地灯配白球灯罩；白色蘑菇台灯，黑底座
+- 白色矮柜配黑色推门；黑色推车、主机架、显示器、键盘、投影仪
+- 黑白棋盘格地毯；炭灰遮光帘
+- 唯一的颜色是植物绿。墙是白的，木地板保留。
+改色用的脚本：/workspace/design/v3_bw.py
